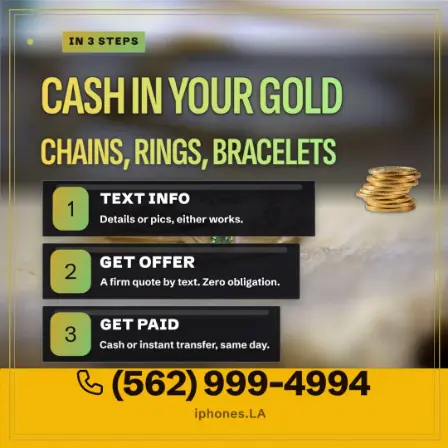
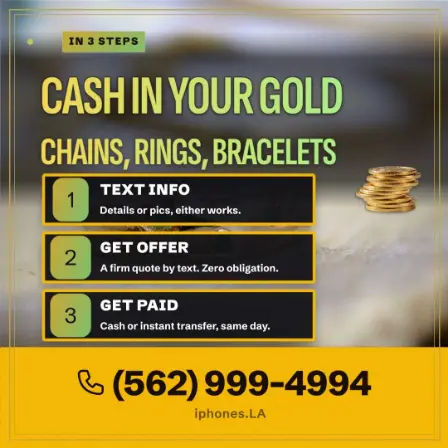
Six step styles for Steps Flow cards; the gold card outlined, its number given room
The owner, of the coins card as built: "The more styles the better but
definitely night and day improvement". And earlier, of the gold card
(stepsFlow-nn01-31): "This CTA is awkwardly spaced and has poor alignment
since there's no margin and it's touching the edge of the bar the yellow
bar".

scripts/_step_styles.mjs: one pure function, applyStepStyle(rec, card,
style), with six looks for a card's three step plates: party, pattern,
accents, outline, glow, solid. Whatever the look, the stack is made
consistent first: sheen bars off, one plate width, one numeral size, one
label size, one number box (the first row's, in the card's own colour: a
box given the band's gold pulled the band into the tagline look's
gradient). A plate with a wider outline gets a smaller path, so it stands
in the box it had. roomForNumber starts a footer band higher so its number
is not on its top edge. scripts/step_styles.mjs writes a record with them
and stamps it with the revision it started from, so a card can change
style later without the styles piling up.

The gold card: `step_styles.mjs stepsFlow-nn01-31 outline --room`. Plates
659 / 659 / 659 wide (658 / 622 / 574), a gold outline on each, the band
from 837 where it was from 888.
- The number's box now starts 42px inside the band; it started 9px above
  the band's edge. The website line stays on the 6% guide (rule 57), 65px
  off the card's foot, which is why the band moved and the words did not.
[…]

Changed region(s): [[0.0, 0.375, 1.0, 0.9062]]

diff --git a/app.js b/app.js
@@ -19,7 +19,7 @@ const CUTOUT_EXT = '.webp';
    the app requests carries this revision; bump it whenever assets/bg,
    assets/cutouts, assets/grounds or assets/showcase change. Caches stay keyed
    by the bare path, which is what templates name. */
-const ASSET_REV = '20261111a';
+const ASSET_REV = '20261112a';
 function assetUrl(src){ return /^assets\//.test(String(src || '')) ? src + '?v=' + ASSET_REV : src; }
 
 // ---------- safe storage (works standalone; degrades to memory) ----------

diff --git a/tools/looks-lab/README.md b/tools/looks-lab/README.md
@@ -60,8 +60,15 @@ format but square.
 `card-prototypes/cards.cjs` repaints the gold and the coins Steps Flow cards
 at runtime to the owner's notes of 2026-11-11 (the notes and the measurements
 are at the top of the file). Prototypes only: the records are not changed. To
-make the gold card real, its number has to be placed by the engine with even
-margins in the band (today it is set 9px above the band's top edge).
+the gold card is built too (2026-11-12): `scripts/step_styles.mjs
+stepsFlow-nn01-31 outline --room`. The prototype's "44px above, 47 below" put
+the website line inside the 6% guide, which rule 57 forbids; the built card
+keeps the words on the guide and starts the band higher instead (42px of band
+above the number's box, where it was 9px over the edge).
+
+`scripts/_step_styles.mjs` holds six step styles for any Steps Flow card
+(party, pattern, accents, outline, glow, solid), from the owner's "The more
+styles the better".
 
 The coins card IS built (2026-11-11): the owner chose "party colors", "the
 pattern fill" and "color accents". `scripts/party_coins_steps.mjs` writes its
